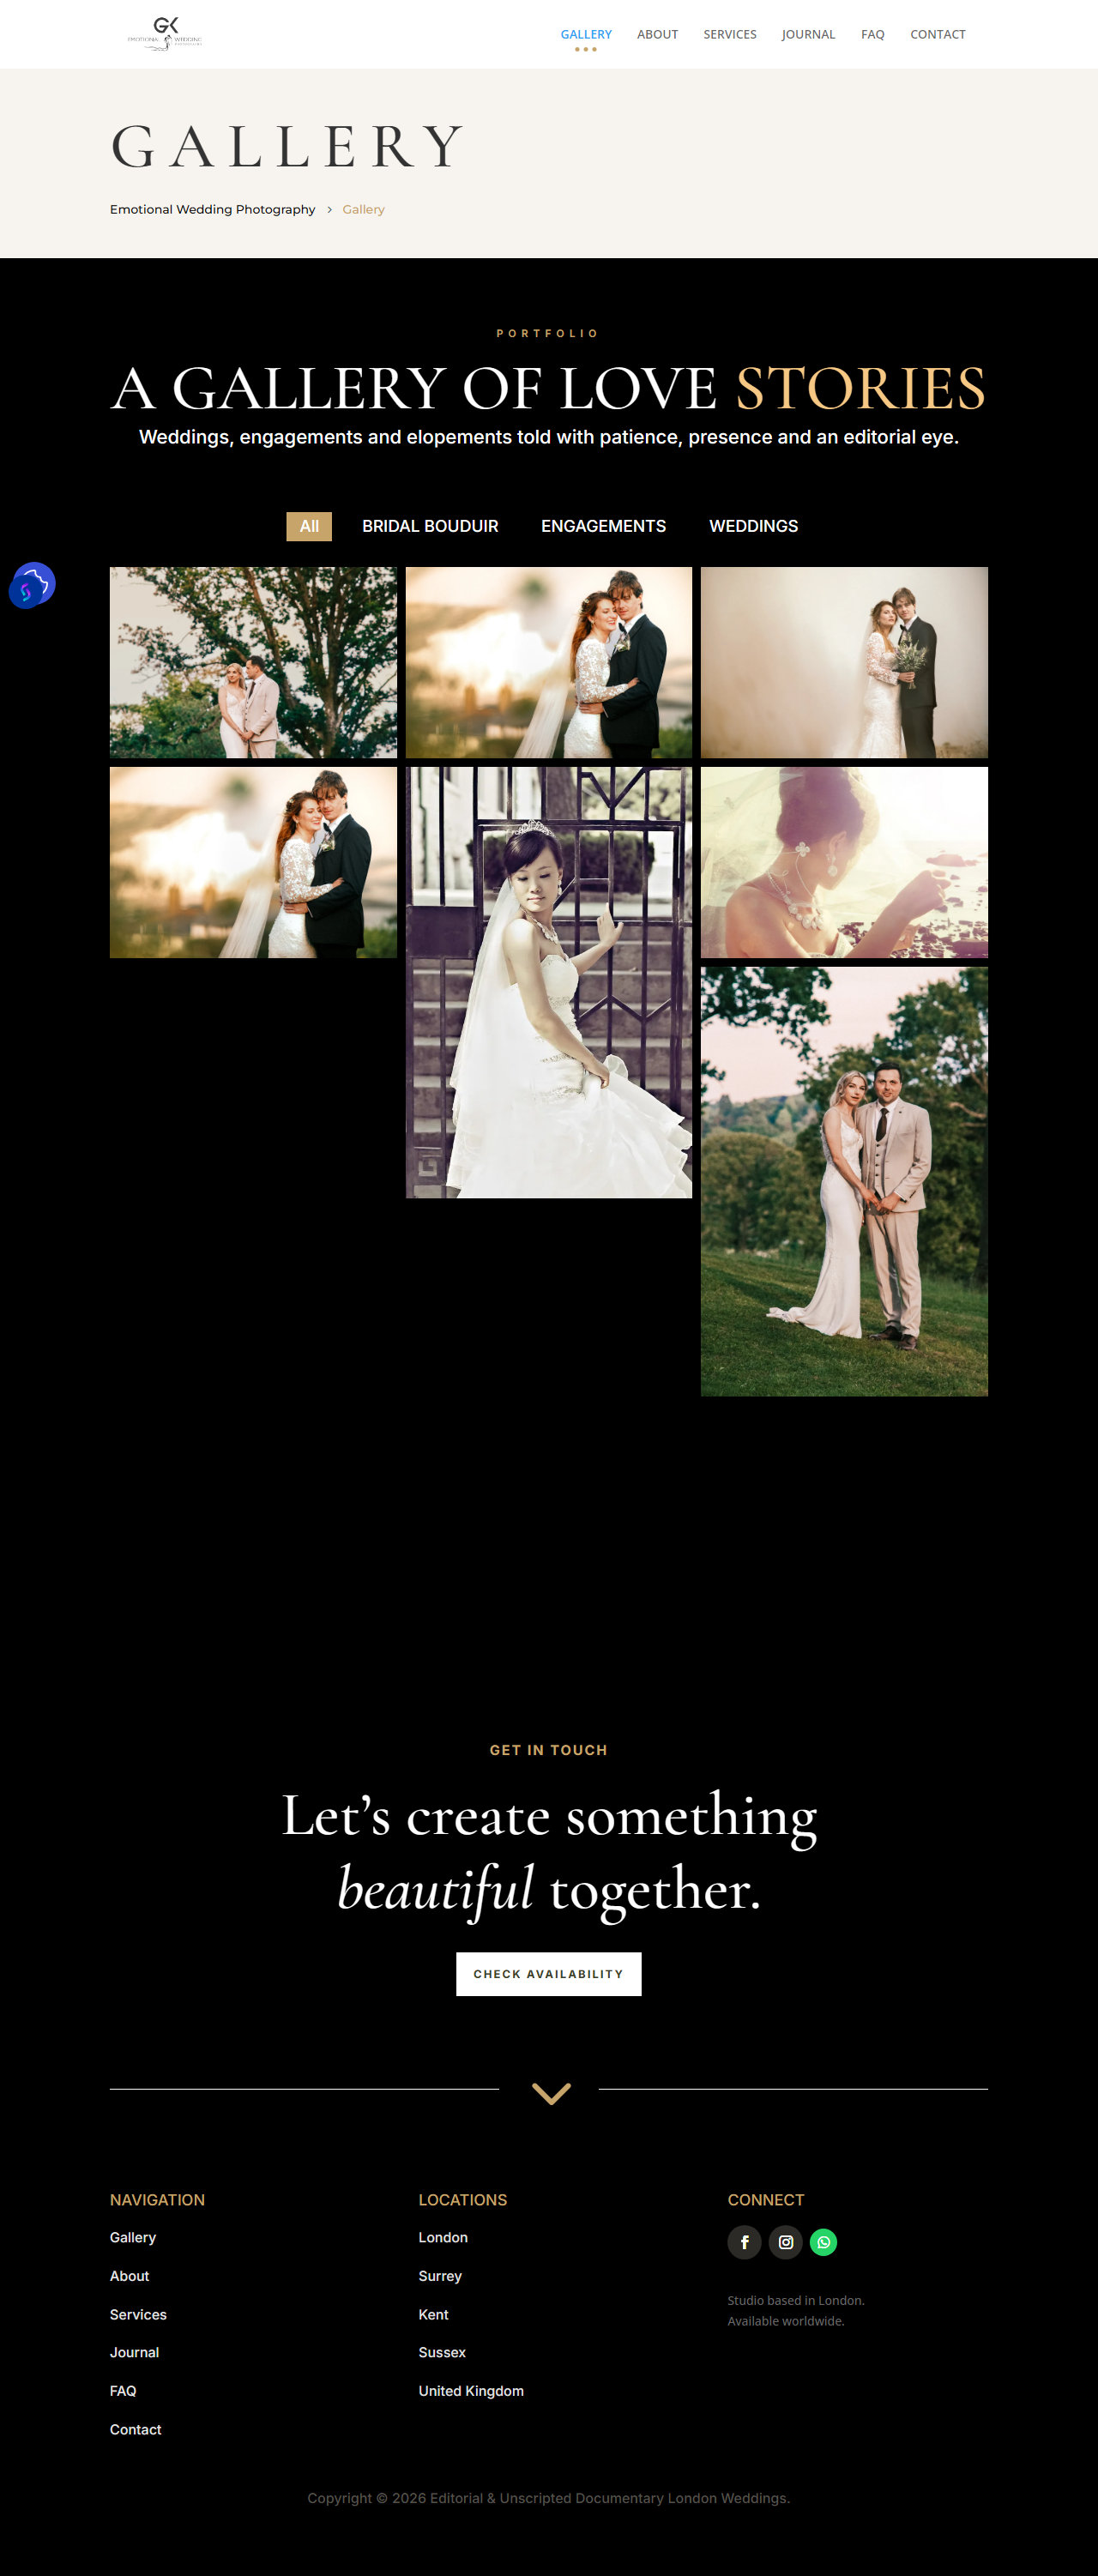
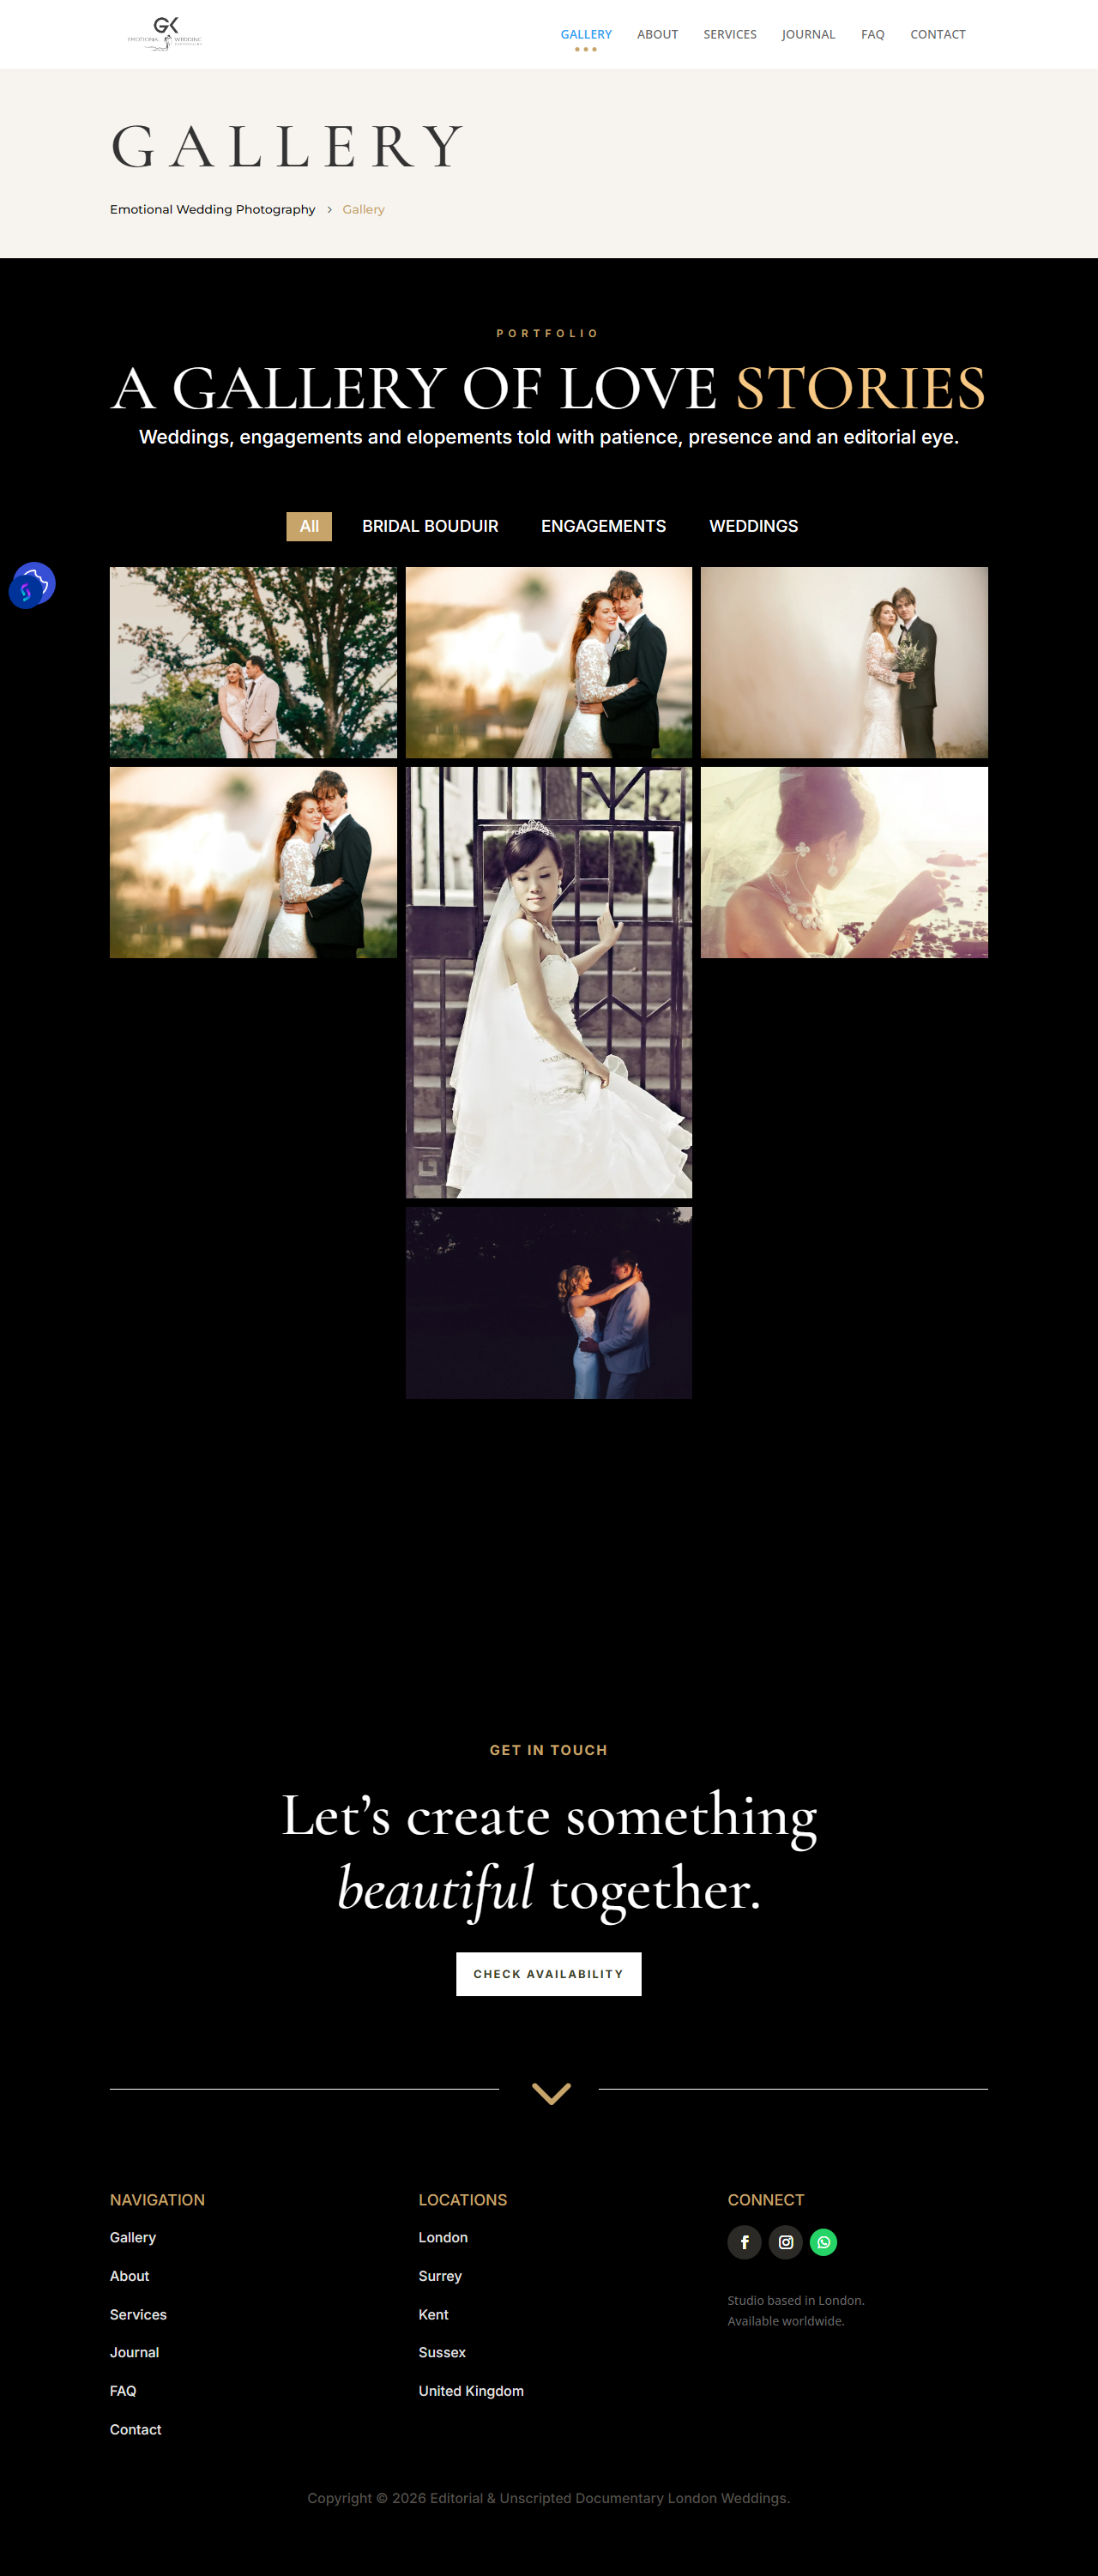
Fix advace home url

Changed region(s): [[0.3438, 0.3716, 0.9062, 0.5574]]

diff --git a/wordpress/wp-content/mu-plugins/emotional-weddings-redesign/home-v1.css b/wordpress/wp-content/mu-plugins/emotional-weddings-redesign/home-v1.css
@@ -32,31 +32,192 @@
   text-decoration: none;
 }
 
-.ew-hero {
-  min-height: calc(100vh - 80px);
-  display: grid;
-  grid-template-columns: minmax(0, 1fr) minmax(320px, 44vw);
-  background: var(--ew-black);
-  color: var(--ew-white);
-}
-
-.ew-hero__image {
-  min-height: calc(100vh - 80px);
-}
-
-.ew-hero__copy {
-  display: flex;
-  flex-direction: column;
-  justify-content: center;
-  padding: 92px clamp(28px, 6vw, 96px);
-}
-
 .ew-eyebrow {
   color: var(--ew-gold);
   font-size: 11px;
   letter-spacing: .28em;
   text-transform: uppercase;
   margin: 0 0 18px;
+}
+
+.ew-side-toggle {
+  position: absolute;
+  inline-size: 1px;
+  block-size: 1px;
+  opacity: 0;
+  pointer-events: none;
+}
+
+.ew-side-button {
+  position: fixed;
+  z-index: 80;
+  top: 28px;
+  right: 30px;
+  display: inline-grid;
+  gap: 5px;
+  width: 46px;
+  height: 46px;
+  padding: 0;
+  place-content: center;
+  border: 1px solid rgba(255, 250, 244, .8);
+  border-radius: 0;
+  background: rgba(5, 5, 5, .24);
+  color: var(--ew-white);
+  cursor: pointer;
+  font-size: 0;
+  line-height: 0;
+  text-indent: 0;
+  box-shadow: none;
+}
+
+.ew-side-button span {
+  display: block;
+  width: 18px;
+  height: 1px;
+  background: currentColor;
+  opacity: 1;
+}
+
+.ew-side-panel {
+  position: fixed;
+  z-index: 90;
+  inset: 0 0 0 auto;
+  width: min(430px, 92vw);
+  padding: 38px clamp(28px, 5vw, 54px);
+  color: var(--ew-white);
+  background: rgba(5, 5, 5, .96);
+  transform: translateX(100%);
+  transition: transform .35s ease;
+}
+
+.ew-side-toggle:checked ~ .ew-side-panel {
+  transform: translateX(0);
+}
+
+.ew-side-close {
+  display: inline-flex;
+  margin-left: auto;
+  width: 44px;
+  height: 44px;
+  align-items: center;
+  justify-content: center;
+  border: 1px solid rgba(255, 250, 244, .4);
+  cursor: pointer;
+  font-size: 24px;
+}
+
+.ew-side-panel nav {
+  display: grid;
+  gap: 20px;
+  margin: 46px 0;
+  font-family: Georgia, "Times New Roman", serif;
+  font-size: 34px;
+}
+
+.ew-side-panel p {
+  color: rgba(255, 250, 244, .68);
+}
+
+.ew-slider {
+  position: relative;
+  min-height: 92vh;
+  overflow: hidden;
+  color: var(--ew-white);
+  background: var(--ew-black);
+}
+
+.ew-slide {
+  position: absolute;
+  inset: 0;
+  opacity: 0;
+  animation: ewFade 18s infinite;
+}
+
+.ew-slide:nth-child(2) {
+  animation-delay: 6s;
+}
+
+.ew-slide:nth-child(3) {
+  animation-delay: 12s;
+}
+
+.ew-slide::after {
+  content: "";
+  position: absolute;
+  inset: 0;
+  background: linear-gradient(90deg, rgba(0,0,0,.62), rgba(0,0,0,.18) 48%, rgba(0,0,0,.34));
+}
+
+.ew-slide img {
+  width: 100%;
+  height: 100%;
+  object-fit: cover;
+}
+
+@keyframes ewFade {
+  0%, 30% { opacity: 1; }
+  37%, 100% { opacity: 0; }
+}
+
+.ew-slider__brand {
+  position: absolute;
+  z-index: 3;
+  top: 28px;
+  left: clamp(22px, 4vw, 58px);
+  font-family: Georgia, "Times New Roman", serif;
+  font-size: 18px;
+  letter-spacing: .18em;
+  text-transform: uppercase;
+}
+
+.ew-slider__copy {
+  position: relative;
+  z-index: 2;
+  min-height: 92vh;
+  display: flex;
+  flex-direction: column;
+  justify-content: center;
+  width: min(720px, 88vw);
+  padding: 110px clamp(24px, 6vw, 92px);
+}
+
+.ew-slider__copy h1 {
+  text-shadow: 0 14px 50px rgba(0,0,0,.4);
+}
+
+.ew-lead {
+  max-width: 520px;
+  margin: 28px 0 0;
+  color: rgba(255, 250, 244, .82);
+  font-size: 17px;
+}
+
+.ew-banner-menu {
+  position: relative;
+  z-index: 4;
+  display: grid;
+  grid-template-columns: repeat(5, minmax(0, 1fr));
+  border-top: 1px solid rgba(23, 20, 17, .14);
+  border-bottom: 1px solid rgba(23, 20, 17, .14);
+  background: var(--ew-paper);
+}
+
+.ew-banner-menu a {
+  display: flex;
+  min-height: 76px;
+  align-items: center;
+  justify-content: center;
+  border-right: 1px solid rgba(23, 20, 17, .12);
+  color: var(--ew-ink);
+  font-size: 11px;
+  letter-spacing: .18em;
+  text-transform: uppercase;
+}
+
+.ew-banner-menu a:last-child {
+  border-right: 0;
+  background: var(--ew-black);
+  color: var(--ew-white);
 }
 
 .ew-home-v1 h1,
@@ -78,13 +239,6 @@
 .ew-home-v1 h2,
 .ew-display {
   font-size: clamp(40px, 5vw, 82px);
-}
-
-.ew-lead {
-  max-width: 520px;
-  margin: 28px 0 0;
-  color: rgba(255, 250, 244, .76);
-  font-size: 17px;
 }
 
 .ew-button-row {
@@ -264,19 +418,33 @@
 }
 
 @media (max-width: 860px) {
-  .ew-hero,
   .ew-split,
   .ew-collections {
     grid-template-columns: 1fr;
   }
 
-  .ew-hero__image {
-    min-height: 58vh;
-    order: -1;
+  .ew-side-button {
+    top: 18px;
+    right: 18px;
   }
 
-  .ew-hero__copy {
-    padding-top: 54px;
+  .ew-slider,
+  .ew-slider__copy {
+    min-height: 82vh;
+  }
+
+  .ew-slider__copy {
+    padding: 94px 24px 58px;
+  }
+
+  .ew-banner-menu {
+    grid-template-columns: 1fr;
+  }
+
+  .ew-banner-menu a {
+    min-height: 58px;
+    border-right: 0;
+    border-bottom: 1px solid rgba(23, 20, 17, .12);
   }
 
   .ew-mosaic,

diff --git a/exports/templates/home-redesign-v1.wp.html b/exports/templates/home-redesign-v1.wp.html
@@ -303,8 +303,37 @@
 </style>
 
 <main class="ew-home-v1">
-  <section class="ew-hero">
-    <div class="ew-hero__copy">
+  <input class="ew-side-toggle" type="checkbox" id="ew-side-panel-toggle" aria-hidden="true">
+  <label class="ew-side-button" for="ew-side-panel-toggle" aria-label="Open menu">
+    <span></span>
+    <span></span>
+    <span></span>
+  </label>
+  <aside class="ew-side-panel" aria-label="Editorial menu">
+    <label class="ew-side-close" for="ew-side-panel-toggle" aria-label="Close menu">&times;</label>
+    <p class="ew-eyebrow">Emotional Weddings</p>
+    <nav>
+      <a href="/gallery/">Portfolio</a>
+      <a href="/services/">Experience</a>
+      <a href="/about/">About Greg</a>
+      <a href="/journal/">Journal</a>
+      <a href="/contact/">Inquire</a>
+    </nav>
+    <p>Editorial and documentary wedding photography for London, the UK, and destination celebrations. Quietly observed, emotionally honest, and composed with care.</p>
+  </aside>
+
+  <section class="ew-slider" aria-label="Featured wedding photography">
+    <div class="ew-slide">
+      <img src="/wp-content/uploads/2026/04/Surrey-Wedding-Photographers-9.jpg" alt="Wedding couple in an editorial outdoor moment" loading="eager">
+    </div>
+    <div class="ew-slide">
+      <img src="/wp-content/uploads/2026/04/NatalieShane-Wedding_OG-290.webp" alt="Wedding couple portrait" loading="eager">
+    </div>
+    <div class="ew-slide">
+      <img src="/wp-content/uploads/2026/06/Emotional-Wedding-Photography-109.webp" alt="Documentary wedding moment" loading="eager">
+    </div>
+    <a class="ew-slider__brand" href="/">Emotional Weddings</a>
+    <div class="ew-slider__copy">
       <p class="ew-eyebrow">London, UK and destination weddings</p>
       <h1>A quiet eye for unrepeatable moments.</h1>
       <p class="ew-lead">Editorial and documentary wedding photography for couples who want their day remembered with honesty, elegance, and feeling.</p>
@@ -313,10 +342,15 @@
         <a class="ew-button" href="/gallery/">View the work</a>
       </div>
     </div>
-    <div class="ew-hero__image">
-      <img src="/wp-content/uploads/2026/04/Surrey-Wedding-Photographers-9.jpg" alt="Wedding couple in an editorial outdoor moment" loading="eager">
-    </div>
   </section>
+
+  <nav class="ew-banner-menu" aria-label="Home feature menu">
+    <a href="/gallery/">Portfolio</a>
+    <a href="/services/">Experience</a>
+    <a href="/about/">About Greg</a>
+    <a href="/journal/">Journal</a>
+    <a href="/contact/">Inquire</a>
+  </nav>
 
   <section class="ew-section" id="experience">
     <div class="ew-section__inner ew-split">